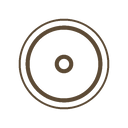
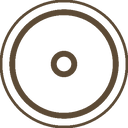
Fix client strip marks: proper trims and the IK badge
Margins trimmed on five logos that rendered undersized (cropdetect
needs skip=0 on single images), Dr. Kontomanis badge rebuilt as a
rendered PNG, Mnimi & Logos keyed to a tile wordmark.

diff --git a/index.html b/index.html
@@ -131,7 +131,7 @@
           <img src="/assets/img/clients/georgiostsirakopoulos.png" alt="Dr. Tsirakopoulos" loading="lazy" decoding="async">
           <img src="/assets/img/clients/01dentalclinic.png" alt="01 Dental Clinic" loading="lazy" decoding="async">
           <img src="/assets/img/clients/meniakaranasiou.png" alt="Menia Karanasiou" loading="lazy" decoding="async">
-          <img src="/assets/img/clients/orthopedic-skiathos.svg" alt="Dr. Kontomanis" loading="lazy" decoding="async">
+          <img src="/assets/img/clients/orthopedic-skiathos.png" alt="Dr. Kontomanis" loading="lazy" decoding="async">
           <img src="/assets/img/clients/memoryandspeech.png" alt="Mnimi & Logos" loading="lazy" decoding="async">
           <img src="/assets/img/clients/menelaoslambropoulos.svg" alt="Menelaos Lambropoulos" loading="lazy" decoding="async">
           <img src="/assets/img/clients/dentalharmonyclinic.png" alt="Dental Harmony Clinic" loading="lazy" decoding="async">
@@ -150,7 +150,7 @@
           <img src="/assets/img/clients/georgiostsirakopoulos.png" alt="" loading="lazy" decoding="async">
           <img src="/assets/img/clients/01dentalclinic.png" alt="" loading="lazy" decoding="async">
           <img src="/assets/img/clients/meniakaranasiou.png" alt="" loading="lazy" decoding="async">
-          <img src="/assets/img/clients/orthopedic-skiathos.svg" alt="" loading="lazy" decoding="async">
+          <img src="/assets/img/clients/orthopedic-skiathos.png" alt="" loading="lazy" decoding="async">
           <img src="/assets/img/clients/memoryandspeech.png" alt="" loading="lazy" decoding="async">
           <img src="/assets/img/clients/menelaoslambropoulos.svg" alt="" loading="lazy" decoding="async">
           <img src="/assets/img/clients/dentalharmonyclinic.png" alt="" loading="lazy" decoding="async">
